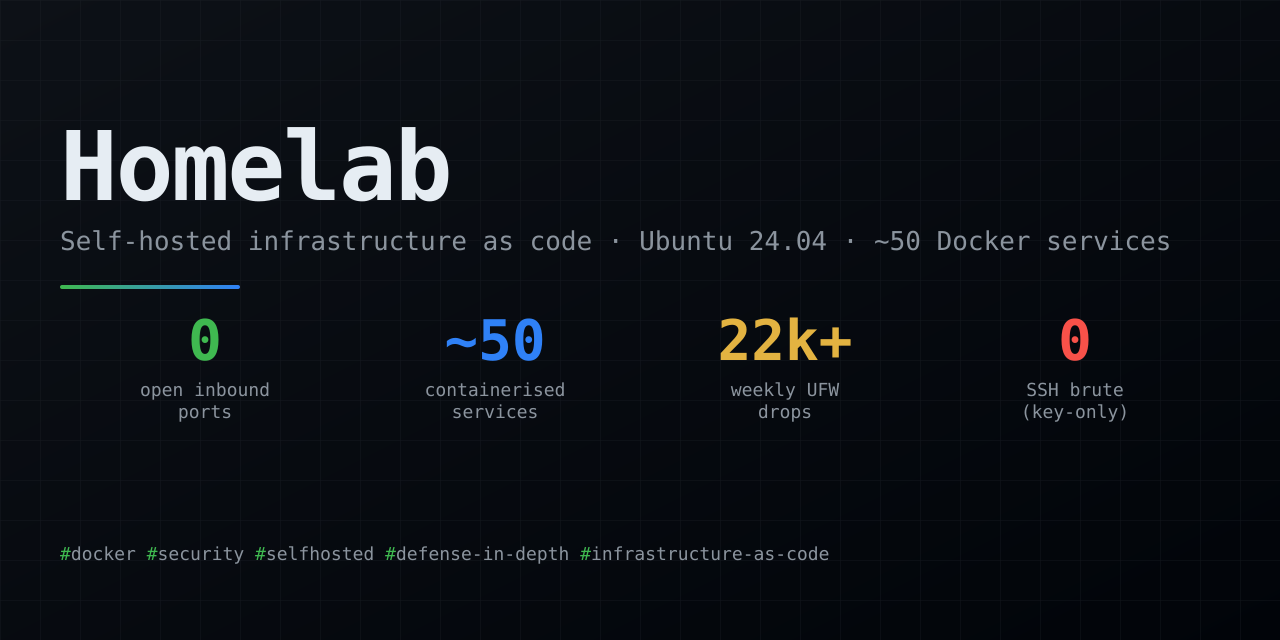
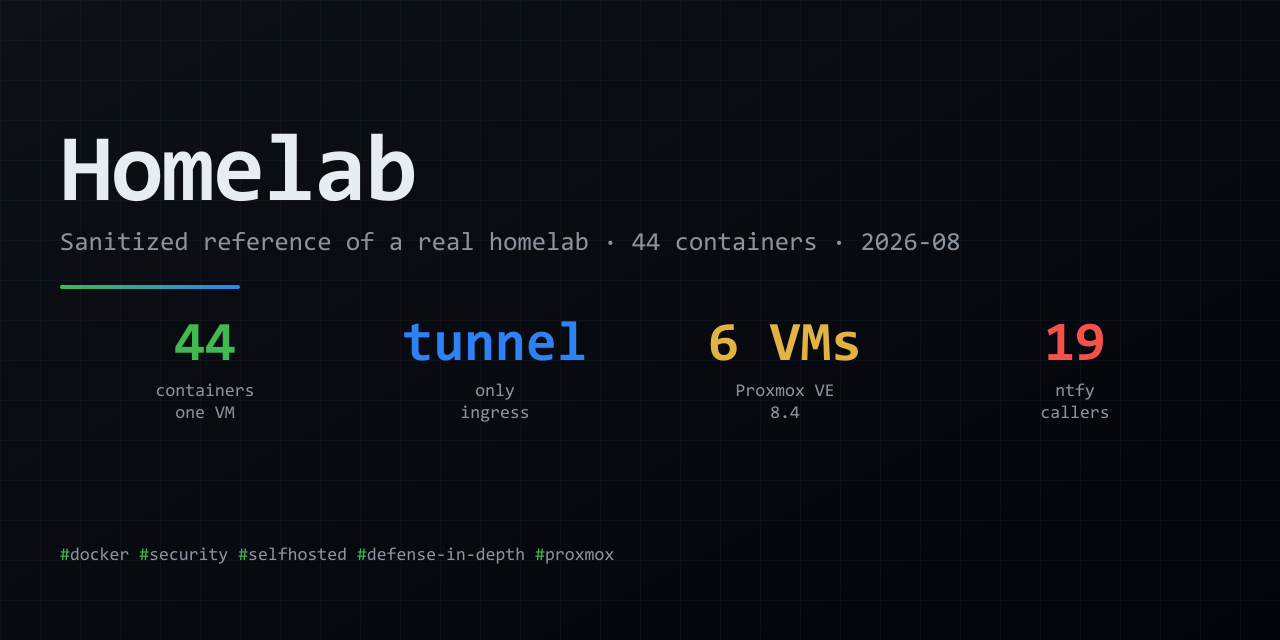
docs(img): new dashboard capture, updated architecture diagram, drop unreferenced renders

diff --git a/docs/security.md b/docs/security.md
@@ -53,6 +53,8 @@ The kill-switch is verifiable, not aspirational — `vpn-killswitch-check.sh` pr
 
 <p align="center">
   <img src="img/vpn-killswitch.gif" alt="vpn-killswitch-check.sh comparing qBittorrent egress IP vs host egress IP" width="780"/>
+  <br/>
+  <sub>Synthetic demo recorded 2026-04 (<code>scripts/demo/</code>); not a live capture.</sub>
 </p>
 
 ### 2. Network
@@ -114,7 +116,9 @@ UFW stops what shouldn't get in. fail2ban stops what's hammering known login sur
 **Honest limits.** TLS-encrypted traffic is opaque — Suricata sees the SNI, JA3 fingerprint, certificate, and timing, but not the payload. That's enough to flag "this device is talking to a known C2 hostname" but not enough to read what's said. Inline blocking is deliberately off; the trade-off is that Suricata detects, fail2ban and UFW respond. For a single-host LAN this split (perimeter / brute-force / behavioural) is enough; an enterprise would add NDR and SIEM correlation on top.
 
 <p align="center">
-  <img src="img/alerting.gif" alt="fail2ban status + Suricata fast.log tail with realistic IDS alerts" width="780"/>
+  <img src="img/alerting.gif" alt="fail2ban status + IDS fast.log tail with example alerts" width="780"/>
+  <br/>
+  <sub>Synthetic demo recorded 2026-04 (<code>scripts/demo/</code>); Suricata shown here is not deployed in the current VM.</sub>
 </p>
 
 ## Event-driven alerting

diff --git a/docs/observability.md b/docs/observability.md
@@ -95,7 +95,9 @@ This is more elegant than running a sidecar that pre-aggregates — Homepage tal
 The metrics layer answers "what is happening?". The events layer answers "what *just happened* that I need to know about *right now*?".
 
 <p align="center">
-  <img src="img/alerting.gif" alt="Live tail of ntfy events — SSH login, sudo, fail2ban ban, Suricata signature, file-watcher" width="780"/>
+  <img src="img/alerting.gif" alt="Live tail of ntfy events — SSH login, sudo, fail2ban ban, IDS signature, file-watcher" width="780"/>
+  <br/>
+  <sub>Synthetic demo recorded 2026-04 (<code>scripts/demo/</code>); the Suricata event shown here is not deployed in the current VM.</sub>
 </p>
 
 The high-signal layer is **seven security event sources** — these are the ones that wake you up in the middle of the night:

diff --git a/scripts/README.md b/scripts/README.md
@@ -64,6 +64,8 @@ Each subdirectory holds standalone scripts that source `../lib.sh`. Read the hea
 
 <p align="center">
   <img src="../docs/img/server-motd.gif" alt="MOTD banner with live system stats on SSH login" width="780"/>
+  <br/>
+  <sub>Synthetic demo recorded 2026-04 (<code>scripts/demo/</code>); container count and disk figures predate the 2026-08 snapshot.</sub>
 </p>
 
 The full schedule that ties these together lives in [`crontab.example`](crontab.example).

diff --git a/security/README.md b/security/README.md
@@ -18,6 +18,8 @@ The defense-in-depth pieces of the homelab.
 
 <p align="center">
   <img src="../docs/img/vpn-killswitch.gif" alt="vpn-killswitch-check.sh verifying torrent traffic exits via Mullvad, not the ISP" width="780"/>
+  <br/>
+  <sub>Synthetic demo recorded 2026-04 (<code>scripts/demo/</code>); not a live capture.</sub>
 </p>
 
 See [`../docs/security.md`](../docs/security.md) for the full threat model and layer-by-layer reasoning.
